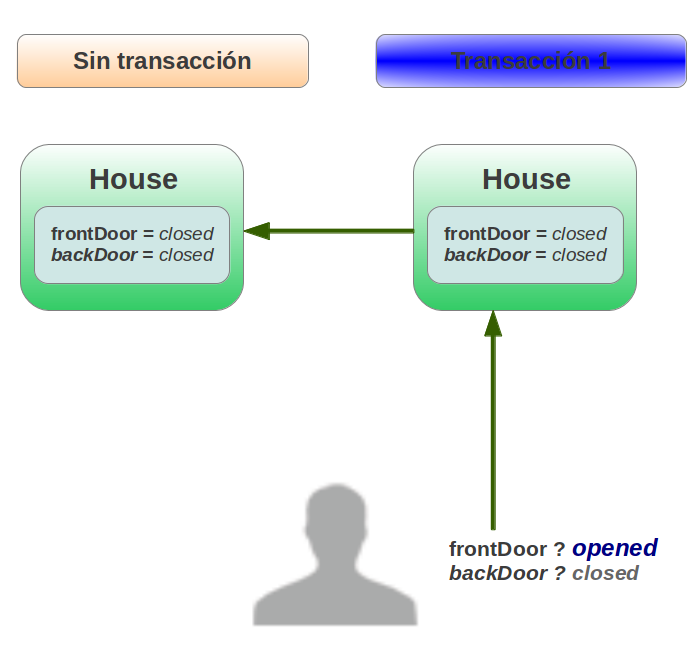
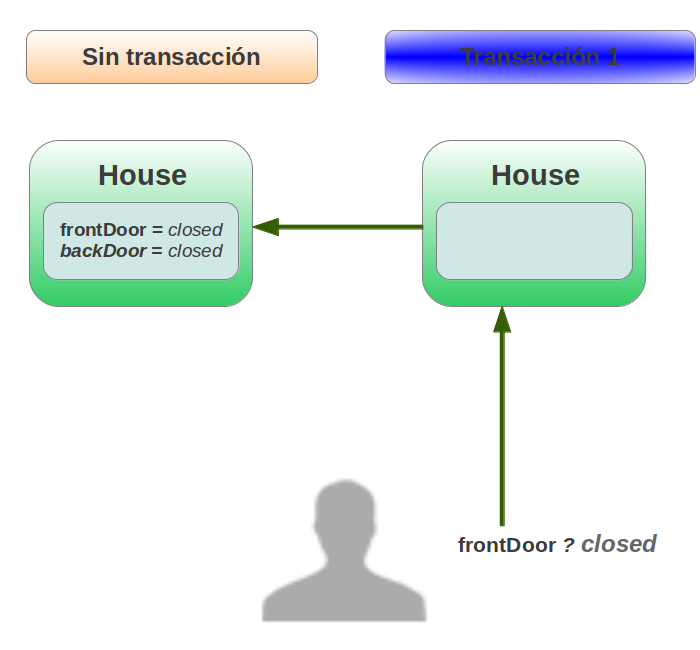
git-svn-id: https://xp-dev.com/svn/uqbar/projects/apo@55 e1a88654-4610-4beb-b2e6-8ed2f74c6698

diff --git a/apo-report/trunk/src/tex/TIP.tex b/apo-report/trunk/src/tex/TIP.tex
@@ -12,7 +12,7 @@ que nos permmite facilmente implementar un aspecto, y aplicarlo a un grupo de
 objetos.
 \\
 Se evaluaron dos frameworks para resolver nuestro problema. Uno es Javassist y
-el otro AspectJ.\\
+el otro AspectJ. \cite{KiczalesHHKPG01}\\
 Se utiliza Javassist porque es independiente al usuario, en cambio si utilamos
 AspectJ obligamos al consummidor a cambiar la implementacion de sus objetos,
 y cambiar el compilador del codigo. \\ \\ 
@@ -62,7 +62,7 @@ Utilizando esta herramienta se implementaron dos aspectos diferentes:
 	\end{itemize}
 	
 	 
-	{\bf Implementacion}\\
+	{\bf Implementación}\\
 	Utilizando la programacion orientada a aspectos, intercepta todas las lecturas
 	y escrituras de los fields. Insertando codigo al momento de la carga de la
 	clase.
@@ -78,28 +78,61 @@ Utilizando esta herramienta se implementaron dos aspectos diferentes:
 	
 	{\bf Modelo Transaccional}
 	
-	\includegraphics[width=350px, height=400px]{img/transacionalModel}
+	\includegraphics[width=350px, height=300px]{img/transacionalModel}
 	
 	{\bf Caso de uso}
 	
-	\includegraphics[width=400px, height=350px]{img/tescasePOT}
+	\includegraphics[width=400px, height=300px]{img/tescasePOT}
 	
-	{\bf Contexto de anidación}
+	{\bf Contexto de transacciones anidadas (1/8)}\\
+	\includegraphics[width=400px, height=300px]{img/contextoAninado1}
 	
-	\includegraphics[width=400px, height=350px]{img/contextoAninado1}
+	{\bf Contexto de transacciones anidadas (2/8)}\\
+	\includegraphics[width=400px, height=300px]{img/contextoAninado2}
 	
+	{\bf Contexto de transacciones anidadas (3/8)}\\
+	\includegraphics[width=400px, height=300px]{img/contextoAninado3}
 	
+	{\bf Contexto de transacciones anidadas (4/8)}\\
+	\includegraphics[width=400px, height=300px]{img/contextoAninado4}
 	
+	{\bf Contexto de transacciones anidadas (5/8)}\\
+	\includegraphics[width=400px, height=300px]{img/contextoAninado5}
 
-	\item {\bf Aspecto Observable}.
+	{\bf Contexto de transacciones anidadas (6/8)}\\
+	\includegraphics[width=400px, height=300px]{img/contextoAninado6}
+
+	{\bf Contexto de transacciones anidadas (7/8)}\\
+	\includegraphics[width=400px, height=300px]{img/contextoAninado7}
+
+	{\bf Contexto de transacciones anidadas (8/8)}\\
+	\includegraphics[width=150px, height=150px]{img/contextoAninado8}
+
+	\item {\bf Aspecto Observable}
+	El aspecto Observable tiene como objetivos:
+	\begin{itemize}
+
+	  \item Convertir un objeto de dominio en observlable, sin que el cliente lo
+	  modifique.
+	  
+	  \item Notificar a todos los Observadores que el valor de alguna propiedad ha
+	  cambiado.
+	  
+	\end{itemize}
+		
+	{\bf Implementacion}\\
+	En su implementacion interna lo que hace el aspecto es agregar un field del
+	tipo \emph{PropertyChangeSupport} al objeto que se va a convertir en
+	Observable. Y a su vez le agrega metodos para completar su objetivo:
+	El primero es el \emph{firePropertyChange} que es el que notifica a los
+	Observadores que una propiedad ha cambiado.\\
+	
+	Luego le agregamos \emph{addPropertyChangeListener} y 
+	\emph{removePropertyChangeListener} para poder agregar y remover Observadores
+	para que escuchen sus cambios.
+		
 	 
 \end{enumerate}
-
-
-	El aspecto Transaccional esta basado en el que habia hecho nico y javi (contar
-	que mejoras se hicieron)
-	
-	El aspecto Observable (contar que le agrega metodos y field)
 
 
 Integracion con el domminio

diff --git a/apo-report/trunk/src/tex/Methodology.tex b/apo-report/trunk/src/tex/Methodology.tex
@@ -43,11 +43,11 @@ Algunos síntomas de este problema pueden ser categorizados de la siguiente mane
 	En un mismo módulo de un sistema de software pueden simultáneamente convivir más
 	de un requerimiento. Esta múltiple existencia de requerimientos lleva a la
 	presencia conjunta de elementos de implementación de más de un
-	requerimiento, resultando en un Código Mezclado.
+	requerimiento, resultando en un Código Mezclado.\cite{mislevy2008dpa}
 	
 	\item {\bf Código Diseminado} \emph{(Code Scattering)}:
 	Como los requerimientos están esparcidos sobre varios módulos, la implementación
-	resultante también queda diseminada sobre esos módulos.
+	resultante también queda diseminada sobre esos módulos.\cite{mislevy2008dpa}
  
 \end{enumerate}
 
@@ -60,6 +60,7 @@ software, de diversas maneras
 	conceptos distrae al desarrollador del concepto principal, por
 	concentrarse también en los conceptos periféricos, disminuyendo la
 	productividad.
+	\cite{Fradet}
   
   \item Menor reuso: Al tener en un mismo módulo implementados varios
 	conceptos, resulta en un código poco reusable.
@@ -67,7 +68,7 @@ software, de diversas maneras
 	\item Baja calidad de código: El Código Mezclado produce un código
 	propenso a errores. Además, al tener como objetivo demasiados
 	conceptos al mismo tiempo se corre el riesgo de que algunos de ellos
-	sean subestimados.
+	sean subestimados.\cite{Fradet}
 	
 	\item Evolución más dificultosa: Como la implementación no está
 	completamente modularizada los futuros cambios en un
